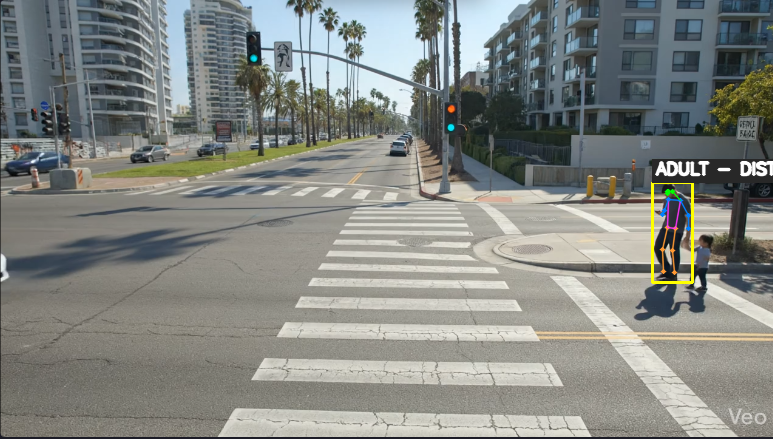
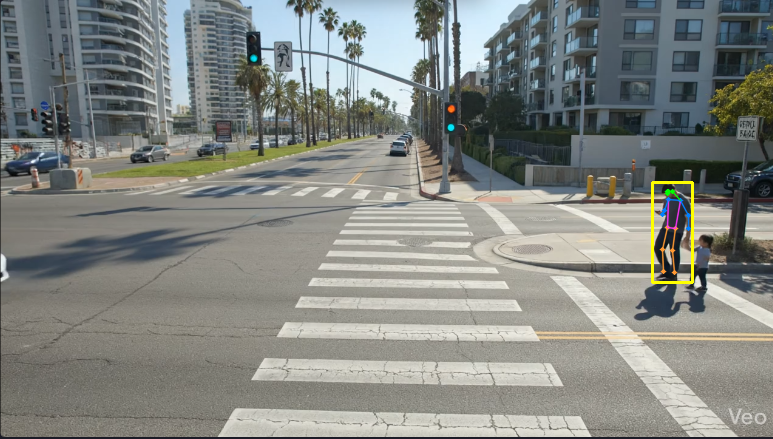
remove title of detaction

Changed region(s): [[0.8383, 0.3554, 1.0, 0.4146]]

diff --git a/smart-crosswalk/backend/ai/process_mocks_yolo.py b/smart-crosswalk/backend/ai/process_mocks_yolo.py
@@ -248,19 +248,7 @@ def draw_labeled_box(
     line_thickness: int = 2,
 ) -> None:
     cv2.rectangle(img, (x1, y1), (x2, y2), color_bgr, line_thickness)
-    font = cv2.FONT_HERSHEY_SIMPLEX
-    font_scale = 0.55
-    thickness = 2
-    (tw, th), baseline = cv2.getTextSize(label, font, font_scale, thickness)
-    ty = max(y1 - 4, th + 6)
-    cv2.rectangle(
-        img,
-        (x1, ty - th - 6),
-        (x1 + tw + 8, ty + baseline - 2),
-        COLOR_TEXT_BG,
-        -1,
-    )
-    cv2.putText(img, label, (x1 + 4, ty - 4), font, font_scale, (255, 255, 255), thickness, cv2.LINE_AA)
+    
 
 
 def process_frame(r: Any, img_h: int) -> tuple[np.ndarray, list[str]]:
